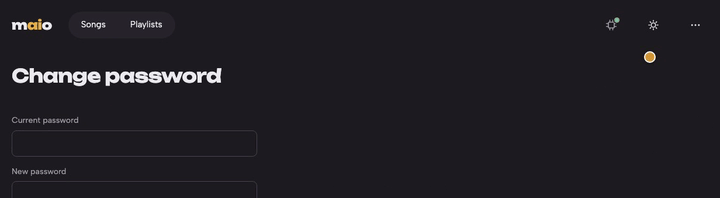
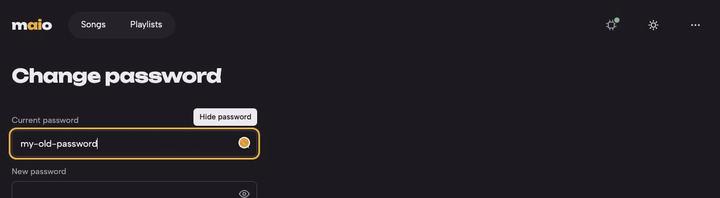
feat(account): show or hide a password while typing it, with the eye at the end of the field
Every password field, on the sign-in page and in Change password, has an
eye at its right end: "Show password" shows what was typed, the same button,
now "Hide password", hides it again. Each field has its own. A press keeps
focus in the field and never submits the form; the password is hidden again
once it has been changed.

Closes #30

Assisted-by: Claude:claude-opus-5-5

Changed region(s): [[0.0, 0.5455, 0.3667, 0.8182], [0.8861, 0.2424, 0.9167, 0.3333], [0.3361, 0.9697, 0.3667, 1.0]]

diff --git a/style/main.css b/style/main.css
@@ -92,6 +92,12 @@ input:not([type=checkbox]):not([type=range]), textarea, select.field { min-heigh
 .error { margin: 0; min-height: 1.45em; color: #FF8A80; }
 :root[data-theme="light"] .error { color: #B3261E; }
 .hint { font-size: 13px; }
+/* A password field with its eye inside, at the right end. */
+.secret { position: relative; display: flex; }
+.secret input { flex: 1; min-width: 0; padding-right: 48px; }
+.secret .reveal { position: absolute; top: 0; right: 0; color: var(--muted); }
+.secret .reveal:hover { background: transparent; color: var(--ink); }
+.secret [data-tip]:hover::after, .secret [data-tip]:focus-visible::after { left: auto; right: 0; transform: none; }
 .narrow { display: flex; flex-direction: column; gap: 16px; max-width: 420px; }
 .sign-in { flex: 1; display: grid; place-items: center; padding: 24px 16px; }
 .sign-in form { width: 100%; max-width: 380px; display: flex; flex-direction: column; gap: 16px; padding: 28px; border-radius: 8px; background: var(--panel); }

diff --git a/src/ui/sign_in.rs b/src/ui/sign_in.rs
@@ -3,7 +3,11 @@
 use leptos::{ev::SubmitEvent, html::Input, prelude::*};
 use thaw::{ToastIntent, ToasterInjection};
 
-use crate::ui::{api, say};
+use crate::ui::{
+    api,
+    icons::{Icon, Svg},
+    say,
+};
 
 /// True once the wasm runs; the server renders false, so a submit before then does nothing.
 fn hydrated() -> RwSignal<bool> {
@@ -18,6 +22,7 @@ pub fn SignIn() -> impl IntoView {
     // wiping what a fast typist or the browser's autofill put there before the app loaded.
     let (user, pass, remember) = (NodeRef::<Input>::new(), NodeRef::<Input>::new(), NodeRef::<Input>::new());
     let (error, busy, ready) = (RwSignal::new(None::<String>), RwSignal::new(false), hydrated());
+    let shown = RwSignal::new(false);
     let submit = move |ev: SubmitEvent| {
         ev.prevent_default();
         let value = |r: NodeRef<Input>| r.get_untracked().map(|i| i.value()).unwrap_or_default();
@@ -49,7 +54,9 @@ pub fn SignIn() -> impl IntoView {
                 <h1 class="logo">"m"<span>"ai"</span>"o"</h1>
                 <p class="tagline"><b>"M"</b>"usic + "<b>"AI"</b>" + "<b>"O"</b>"utput"</p>
                 <label>"Username"<input name="username" autocomplete="username" required node_ref=user/></label>
-                <label>"Password"<input name="password" type="password" autocomplete="current-password" required node_ref=pass/></label>
+                <label>"Password"<span class="secret">
+                    <input name="password" type=move || kind(shown) autocomplete="current-password" required node_ref=pass/><Reveal shown/>
+                </span></label>
                 <label class="check"><input type="checkbox" node_ref=remember/>"Keep me signed in"</label>
                 <p class="error" role="alert">{move || error.get()}</p>
                 <button class="primary" type="submit" disabled=move || busy.get() || !ready.get()>"Sign in"</button>
@@ -63,6 +70,7 @@ pub fn Password() -> impl IntoView {
     let toaster = ToasterInjection::expect_context();
     let (current, new, again) = (RwSignal::new(String::new()), RwSignal::new(String::new()), RwSignal::new(String::new()));
     let (error, busy) = (RwSignal::new(None::<String>), RwSignal::new(false));
+    let shown = [RwSignal::new(false), RwSignal::new(false), RwSignal::new(false)];
     let submit = move |ev: SubmitEvent| {
         ev.prevent_default();
         if new.get_untracked() != again.get_untracked() {
@@ -75,6 +83,7 @@ pub fn Password() -> impl IntoView {
                 Ok(()) => {
                     error.set(None);
                     [current, new, again].iter().for_each(|s| s.set(String::new()));
+                    shown.iter().for_each(|s| s.set(false)); // hidden again once changed
                     say(toaster, "Password changed. Your other sessions are signed out.".into(), ToastIntent::Success);
                 }
                 // The account's "wrong username or password" names a field this form does not have.
@@ -87,12 +96,37 @@ pub fn Password() -> impl IntoView {
     view! {
         <h1>"Change password"</h1>
         <form class="narrow" method="post" on:submit=submit>
-            <label>"Current password"<input type="password" autocomplete="current-password" required bind:value=current/></label>
-            <label>"New password"<input type="password" autocomplete="new-password" minlength="10" maxlength="128" required bind:value=new/>
+            <label>"Current password"<span class="secret">
+                <input type=move || kind(shown[0]) autocomplete="current-password" required bind:value=current/><Reveal shown=shown[0]/>
+            </span></label>
+            <label>"New password"<span class="secret">
+                <input type=move || kind(shown[1]) autocomplete="new-password" minlength="10" maxlength="128" required bind:value=new/><Reveal shown=shown[1]/>
+            </span>
                 <span class="hint">"10 to 128 characters."</span></label>
-            <label>"New password again"<input type="password" autocomplete="new-password" required bind:value=again/></label>
+            <label>"New password again"<span class="secret">
+                <input type=move || kind(shown[2]) autocomplete="new-password" required bind:value=again/><Reveal shown=shown[2]/>
+            </span></label>
             <p class="error" role="alert">{move || error.get()}</p>
             <button class="primary" type="submit" disabled=busy>"Change password"</button>
         </form>
+    }
+}
+
+fn kind(shown: RwSignal<bool>) -> &'static str {
+    if shown.get() { "text" } else { "password" }
+}
+
+/// The eye at the end of a password field: shows what was typed, or hides it again (arc42 8.1). Its name changes
+/// with what it does, so it carries no pressed state as well.
+#[component]
+fn Reveal(shown: RwSignal<bool>) -> impl IntoView {
+    let label = move || if shown.get() { "Hide password" } else { "Show password" };
+    view! {
+        <button type="button" class="icon reveal" aria-label=label data-tip=label
+            // A press keeps focus in the field, so typing carries on.
+            on:mousedown=|ev| ev.prevent_default()
+            on:click=move |_| shown.update(|s| *s = !*s)>
+            <Svg icon=Signal::derive(move || if shown.get() { Icon::EyeOff } else { Icon::Eye }) size=20/>
+        </button>
     }
 }

diff --git a/src/ui/icons.rs b/src/ui/icons.rs
@@ -42,6 +42,8 @@ pub enum Icon {
     Voice,
     Language,
     Pen,
+    Eye,
+    EyeOff,
 }
 
 /// (filled, inner SVG markup) on a 24×24 grid.
@@ -102,6 +104,10 @@ fn shape(icon: Icon) -> (bool, &'static str) {
         Voice => (false, r#"<circle cx="12" cy="8" r="4"/><path d="M4 21c1.5-4 4.5-6 8-6s6.5 2 8 6"/>"#),
         Language => (false, r#"<circle cx="12" cy="12" r="9"/><path d="M3 12h18M12 3c3 3.5 3 14.5 0 18M12 3c-3 3.5-3 14.5 0 18"/>"#),
         Pen => (false, r#"<path d="M4 20h4L19 9l-4-4L4 16v4z"/>"#),
+        Eye => (false, r#"<path d="M2 12s3.6-7 10-7 10 7 10 7-3.6 7-10 7S2 12 2 12z"/><circle cx="12" cy="12" r="3"/>"#),
+        EyeOff => {
+            (false, r#"<path d="M2 12s3.6-7 10-7c2 0 3.8.7 5.2 1.6M22 12s-3.6 7-10 7c-2 0-3.8-.7-5.2-1.6M9.9 9.9a3 3 0 0 0 4.2 4.2M3 3l18 18"/>"#)
+        }
         Grip => (
             true,
             r#"<circle cx="9" cy="6" r="1.6"/><circle cx="15" cy="6" r="1.6"/><circle cx="9" cy="12" r="1.6"/><circle cx="15" cy="12" r="1.6"/><circle cx="9" cy="18" r="1.6"/><circle cx="15" cy="18" r="1.6"/>"#,

diff --git a/docs/architecture/08-crosscutting-concepts.md b/docs/architecture/08-crosscutting-concepts.md
@@ -147,7 +147,7 @@ The design is called **Shelf**: playlists as coloured tiles on a shelf above the
 - **Song details** (from a song's title, on the Songs screen and a playlist page): everything the song carries (8.2): what it was described as, what was sent to the engine ("Sent to the engine", left out for older songs, with the caption "The exact text the engine received: your words with the settings added"), mood, genre, energy, length, tempo, key, time signature, voice (with the voice asked for, as "Female, sung in en"), seed (with the caption "The number this song started from. Make one like this uses it to make the song again, or a variation of it"), engine, who wrote the lyrics and the title, licence, when it was made; its lyrics; downloads in MP3, AAC, FLAC, WAV and Opus; and "Make one like this", which fills the Make form with its settings and seed, and is off like the Make button, with the same reason in its caption and name, while no engine is ready.
 - **Playlist** page: a coloured band with the name and length and icon buttons (play; shuffle play: the playlist from a random song with the player's shuffle on, a one-shot and no switch, and none on a live playlist; add songs: a search field over a table of the songs not yet in the playlist (title, mood, key and tempo, length; a click on a row ticks it), at most eight rows so the dialog never scrolls, or a line saying every song already is; more); the live strip under it (live switch with listener count, public or private, stream shuffle, new link, a copy button per address, the RTSP, SRT and RTMP ones disabled with the reason while MediaMTX is not answering (8.4), streams in use); the songs, full width, with drag to reorder, play, the song on the live stream marked, and remove.
 - **Player bar** on every screen while the player holds a song or a stream (playing or paused; hidden when it holds nothing): current song and playlist, shuffle, previous, play and pause, next, repeat, seek bar, volume; listening live, a Live mark and the song on air in place of the seek bar.
-- **Sign in** and **change password** screens.
+- **Sign in** and **change password** screens. Every password field has an eye at its right end, an icon button whose caption is its name: "Show password" shows what was typed as text, and the same button, now "Hide password", hides it again. Each field has its own; a press keeps focus in the field, it never submits the form, and the password is hidden again after signing in (the page reloads) or once it has been changed.
 - Dialogs are the browser's own `<dialog>`, panels the browser's popover ([ADR 0010](../adr/0010-native-browser-features-first.md)). Toasts also go to a hidden `role="status"` region.
 - Every screen works from 360 px wide, with visible keyboard focus and text contrast of at least 4.5:1 (arc42 10).
 - **Live updates**: the web app never polls and never fetches to catch up. Each page loads once; then every event from the server's stream (`/api/v1/events`, arc42 3.5) carries the new state of one thing, the web app keeps the latest per id, and only the parts of the page that show that thing change: a song's row, a playlist's tile, band and songs, a live strip, the player bar, the engine and MediaMTX icons. A page loads only once the stream is open, so no change falls between the load and the first event. A browser too far behind is disconnected by the server. After the stream reconnects, the page loads once more, since events sent while it was down are lost ([ADR 0018](../adr/0018-the-web-app-learns-of-changes-from-events.md)).

diff --git a/docs/how-to/07-use-the-web-app.md b/docs/how-to/07-use-the-web-app.md
@@ -137,7 +137,7 @@ It also shows the engine's version, model, lyrics model, queue, song lengths, vo
 
    ![Switching the theme](../images/manual/account-1.png)
 
-2. The **⋯** button at the right of the header opens **Change password** and **Sign out**. Change password asks for the current password and the new one twice, 10 to 128 characters.
+2. The **⋯** button at the right of the header opens **Change password** and **Sign out**. Change password asks for the current password and the new one twice, 10 to 128 characters. The eye at the end of a password field shows what you typed; press it again to hide it.
 
    ![The account menu and Change password](../images/manual/account-2.png)
 
